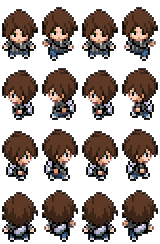
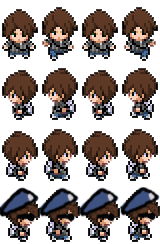
Added security bloke

Changed region(s): [[0.0, 0.7459, 1.0, 1.0]]

diff --git a/assets/js/game.js b/assets/js/game.js
@@ -130,6 +130,9 @@ var loadAssets = function(handleComplete) {
     }, {
         src: 'images/backdrop.jpg',
         id: 'backdrop'
+    },{
+        src: 'images/securityBloke.png',
+        id: 'securityBloke'
     }];
 
     loader = new createjs.LoadQueue(false);
@@ -226,6 +229,42 @@ var createAvatar = function() {
     avatar.asset.framerate = fpsHandler.fps;
 
     avatar.setDimensions(new Vector(avatarImage.width, avatarImage.height));
+    avatar.setPosition(new Vector(300, groundLevel - avatarImage.height));
+
+    stage.addChild(avatar.asset);
+
+    entities.push(avatar);
+
+    return avatar;
+};
+
+var createSecurityAvatar = function() {
+    var avatar = new Entity();
+    var avatarImage = {
+        width: 40,
+        height: 61
+    };
+
+    var data = new createjs.SpriteSheet({
+        "images": [loader.getResult("avatar")],
+        "frames": {
+            "regX": 0,
+            "height": avatarImage.height,
+            "count": 16,
+            "regY": 0,
+            "width": avatarImage.width
+        },
+        // define two animations, run (loops, 1.5x speed) and jump (returns to run):
+        "animations": {
+            "run": [12, 15, "run", 1.5]
+        }
+    });
+
+    avatar.asset = new createjs.Sprite(data, "run");
+    avatar.asset.setTransform(0, 0, scale, scale);
+    avatar.asset.framerate = fpsHandler.fps;
+
+    avatar.setDimensions(new Vector(avatarImage.width, avatarImage.height));
     avatar.setPosition(new Vector(100, groundLevel - avatarImage.height));
 
     stage.addChild(avatar.asset);
@@ -234,6 +273,7 @@ var createAvatar = function() {
 
     return avatar;
 };
+
 
 var createBackground = function() {
     var background = new Entity();
@@ -453,6 +493,8 @@ function init() {
         createBackground();
 
         createAvatar();
+
+        createSecurityAvatar();
 
         createjs.Ticker.timingMode = createjs.Ticker.RAF;
 
